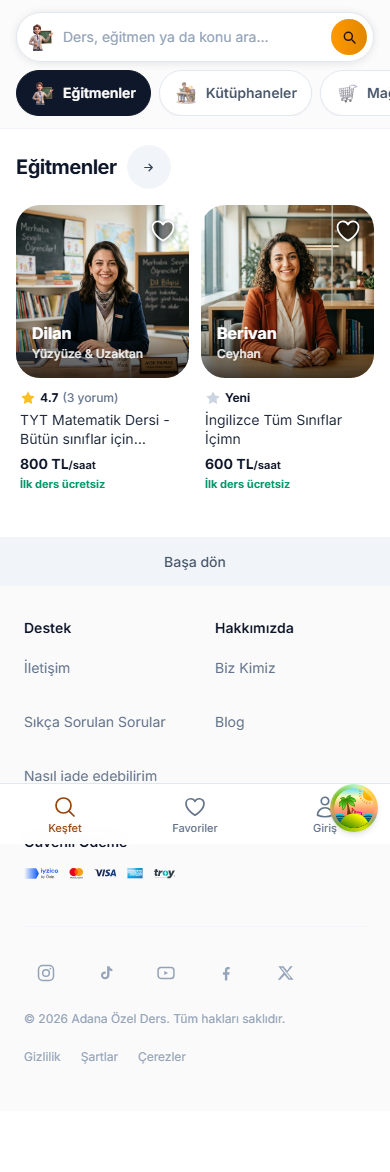
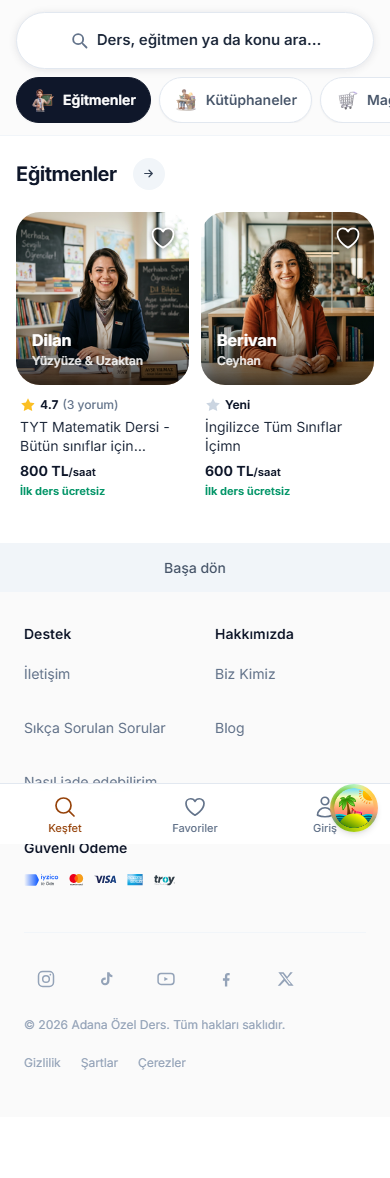
fix(mobil): arama hapından kategori resmi ve turuncu düğme çıktı, vitrin oku küçüldü
Kullanıcı itirazı, referans fotoğrafla doğrulandı: Airbnb'nin mobil arama
hapında ne seçili kategorinin resmi ne de hapın içinde ikinci bir gönder
düğmesi var — yalnız gri büyüteç + yazı, ortalı. Bizimkinde ikisi de
vardı ve ikisini de ben eklemiştim; referansta karşılığı yok.

  - Kategori resmi ve turuncu daire telefonda gizlendi (`md:` üstünde
    duruyor; orada hap geniş ve resim kategoriyi taşıyor).
  - Hap yükseldi (py-4) ve içeriği ortalandı; yazı koyu/yarı-kalın.

Vitrin kuşağındaki dairesel ok da "çok büyük"tü: 44px'lik dokunma hedefi
DAİRENİN KENDİSİ yapılmıştı ve 20px'lik başlığın yanında kocaman
duruyordu. Artık kabuk 44px ama zeminsiz; görünen gri daire 32px. Parmak
aynı alanı bulur, göz küçük düğme görür.

Kapı: 2438/2438 vitest, eslint 0 hata, mobil tur 4/4 GEÇTİ (360/390/414
taşma 0, çakışma 0, 44px altı hedef 0, üst bar 136px).

diff --git a/frontend/src/components/ui/DaireDugme.tsx b/frontend/src/components/ui/DaireDugme.tsx
@@ -35,24 +35,39 @@ const YOL: Record<DaireYon, string> = {
   ileri: "M5 12h14m-6-6 6 6-6 6",
 };
 
-/** Ölçü, renk ve hover TEK yerde. Çağrı yerleri bu dizeyi kopyalamaz. */
+/**
+ * Ölçü, renk ve hover TEK yerde. Çağrı yerleri bu dizeyi kopyalamaz.
+ *
+ * DOKUNMA ALANI ile GÖRÜNEN DAİRE ayrıdır (9 Eyl 2026, kullanıcı itirazı).
+ * Telefonda önce dairenin kendisi 44px yapılmıştı; 20px'lik kuşak başlığının
+ * yanında kocaman duruyordu ("vitrindeki buton çok büyük"). Doğrusu: kabuk
+ * 44px kalır (proje eşiği, `scripts/sihirbaz_mobil_turu.mjs`) ama ZEMİNSİZDİR;
+ * gri daire içerideki 32px'lik yuvarlaktır. Parmak aynı alanı bulur, göz daha
+ * küçük bir düğme görür.
+ */
 const TEMEL =
   "inline-flex h-11 w-11 shrink-0 select-none items-center justify-center rounded-full transition md:h-7 md:w-7";
-const ETKIN = "bg-slate-100 text-slate-700 hover:bg-slate-200";
-const PASIF = "bg-slate-50 text-slate-300 cursor-default";
+const ETKIN = "text-slate-700";
+const PASIF = "text-slate-300 cursor-default";
+/** Görünen daire — kabuğun içinde, ondan küçük. */
+const DAIRE = "flex h-8 w-8 items-center justify-center rounded-full transition md:h-7 md:w-7";
+const DAIRE_ETKIN = "bg-slate-100 group-hover:bg-slate-200 hover:bg-slate-200";
+const DAIRE_PASIF = "bg-slate-50";
 
-function Glif({ yon }: { yon: DaireYon }) {
+function Glif({ yon, pasif = false }: { yon: DaireYon; pasif?: boolean }) {
   return (
-    <svg
-      viewBox="0 0 24 24"
-      fill="none"
-      stroke="currentColor"
-      strokeWidth={2.2}
-      className="h-[13px] w-[13px]"
-      aria-hidden
-    >
-      <path strokeLinecap="round" strokeLinejoin="round" d={YOL[yon]} />
-    </svg>
+    <span className={`${DAIRE} ${pasif ? DAIRE_PASIF : DAIRE_ETKIN}`}>
+      <svg
+        viewBox="0 0 24 24"
+        fill="none"
+        stroke="currentColor"
+        strokeWidth={2.2}
+        className="h-[13px] w-[13px]"
+        aria-hidden
+      >
+        <path strokeLinecap="round" strokeLinejoin="round" d={YOL[yon]} />
+      </svg>
+    </span>
   );
 }
 
@@ -69,7 +84,7 @@ export function DaireBaglanti({
   ...rest
 }: OrtakProps & { to: string }) {
   return (
-    <Link to={to} className={`${TEMEL} ${ETKIN}`} {...rest}>
+    <Link to={to} className={`group ${TEMEL} ${ETKIN}`} {...rest}>
       <Glif yon={yon} />
     </Link>
   );
@@ -87,10 +102,10 @@ export const DaireDugme = forwardRef<
     <PlainButton
       ref={ref}
       disabled={disabled}
-      className={`${TEMEL} ${disabled ? PASIF : ETKIN} ${className}`}
+      className={`group ${TEMEL} ${disabled ? PASIF : ETKIN} ${className}`}
       {...rest}
     >
-      <Glif yon={yon} />
+      <Glif yon={yon} pasif={disabled} />
     </PlainButton>
   );
 });

diff --git a/frontend/src/components/HeroSearch.tsx b/frontend/src/components/HeroSearch.tsx
@@ -484,10 +484,18 @@ export function CompactSearch({
       type="button"
       onClick={onOpen}
       aria-label="Aramayı aç"
-      className="flex w-full items-center gap-2 rounded-full border border-slate-200 bg-white py-1.5 pl-2.5 pr-1.5 shadow-[0_1px_8px_rgba(15,23,42,0.10)] transition hover:shadow-md md:w-[460px] md:max-w-[82vw] "
+      className="flex w-full items-center justify-center gap-2 rounded-full border border-slate-200 bg-white py-4 pl-4 pr-4 shadow-[0_1px_8px_rgba(15,23,42,0.10)] transition hover:shadow-md md:w-[460px] md:max-w-[82vw] md:justify-start md:py-1.5 md:pl-2.5 md:pr-1.5 "
     >
-      {/* Seçili kategori ikonu */}
-      <img src={meta.icon} alt={meta.label} className="h-7 w-7 shrink-0 object-contain" />
+      {/* TELEFONDA yalnız büyüteç. Burada eskiden seçili kategorinin resmi
+          (`meta.icon`) duruyordu; referans alınan Airbnb hapında öyle bir şey
+          YOK ve kullanıcı bunu itiraz olarak bildirdi. Resim masaüstünde
+          kalıyor — orada hap zaten geniş ve kategori bilgisini taşıyor. */}
+      <SearchIconSvg className="h-5 w-5 shrink-0 text-slate-500 md:hidden" />
+      <img
+        src={meta.icon}
+        alt={meta.label}
+        className="hidden h-7 w-7 shrink-0 object-contain md:block"
+      />
 
       {/* İlçe etiketi — TELEFONDA yalnız gerçekten bir yer seçiliyken.
           "Tüm ilçeler" hiçbir şey söylemeyen bir varsayılandır ve 390px'te
@@ -506,13 +514,19 @@ export function CompactSearch({
         className={`${yerSecili ? "block" : "hidden"} h-5 w-px shrink-0 bg-slate-200 md:block`}
       />
 
-      {/* Arama yazısı */}
-      <span className={`flex-1 truncate text-left text-sm ${q ? "text-slate-800 " : "text-slate-400 "}`}>
+      {/* Arama yazısı — telefonda ortalı ve koyu (hapın tek içeriği o),
+          masaüstünde sola yaslı ve ikincil. */}
+      <span
+        className={`truncate text-center text-[15px] font-semibold text-slate-800 md:flex-1 md:text-left md:text-sm md:font-normal ${
+          q ? "md:text-slate-800 " : "md:text-slate-400 "
+        }`}
+      >
         {q || placeholder}
       </span>
 
-      {/* Arama butonu */}
-      <span className="ml-1 flex h-9 w-9 shrink-0 items-center justify-center rounded-full bg-gradient-to-r from-marka to-marka-hover text-marka-fg">
+      {/* Turuncu gönder düğmesi TELEFONDA YOK: hapın kendisi zaten düğme,
+          içine ikinci bir düğme koymak hem yanıltıcı hem de referansta yok. */}
+      <span className="ml-1 hidden h-9 w-9 shrink-0 items-center justify-center rounded-full bg-gradient-to-r from-marka to-marka-hover text-marka-fg md:flex">
         <SearchIconSvg className="h-4 w-4" />
       </span>
     </button>
